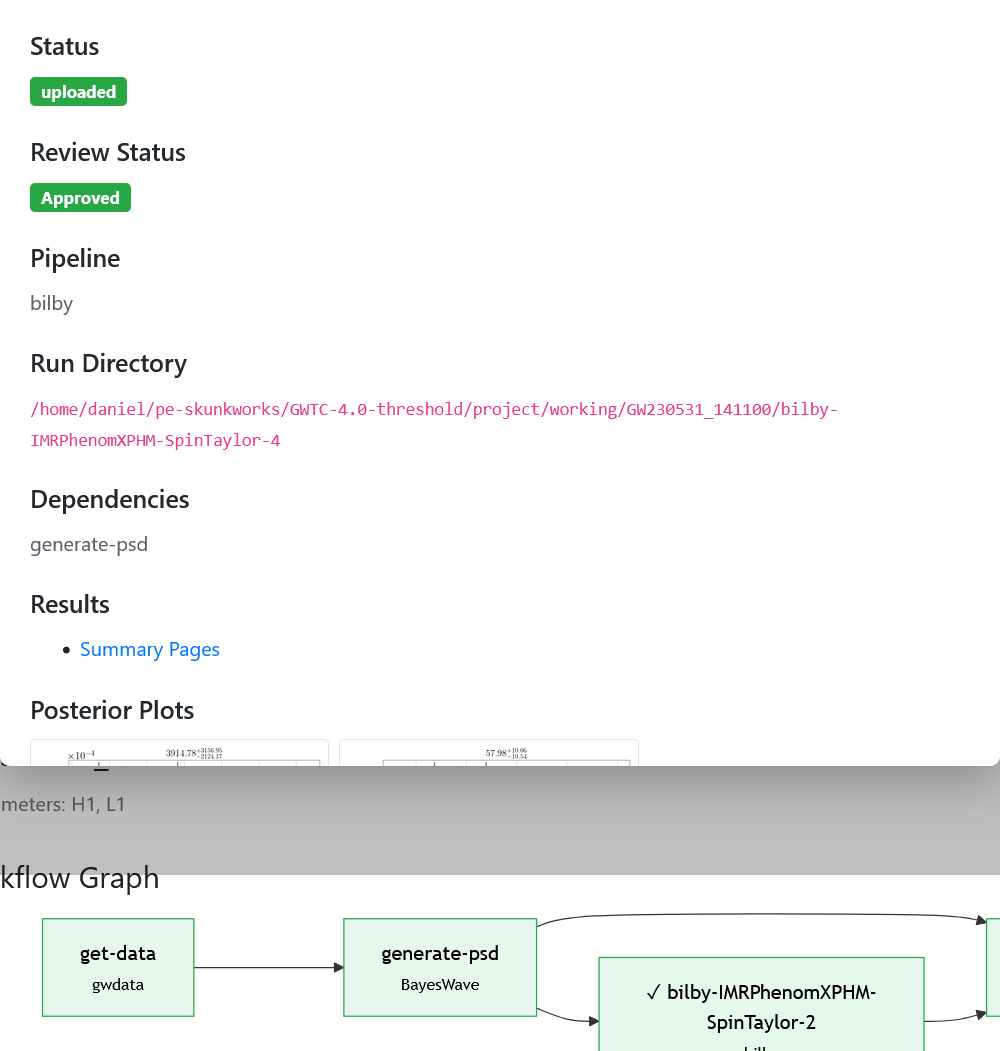
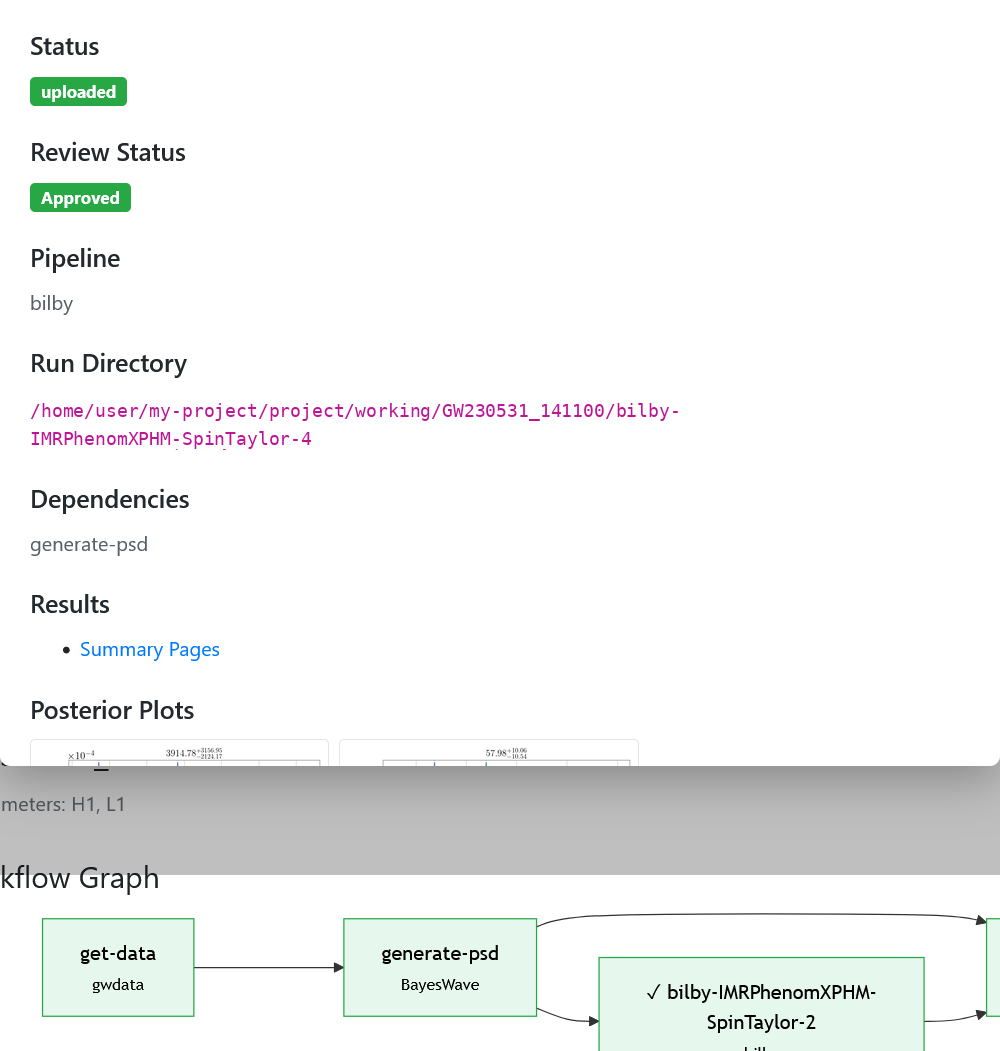
Showcase reporting on the homepage; clean up stale/leaky screenshots (#174)
* Fix docs deployment 404: sphinx-multiversion still targets master

The repo's default branch is main, but conf.py only whitelisted the
master branch for sphinx-multiversion builds and the docs workflow's
generated index.html redirected to ./master/index.html. Since no
master branch exists, nothing ever built under that path and the
published GitHub Pages site 404s.

Also fixes smv_latest_version, which sphinx-multiversion looks up as
a literal version-name dict key (not a regex) - it was previously an
invalid, unclosed expression that could never match anything.

Claude-Session: https://claude.ai/code/session_01WAf5vuktXKP75hpGCXjKRi

* Keep master in sphinx-multiversion branch whitelist for GitLab Pages

The shared docs/source/conf.py is also used by .gitlab-ci.yml's pages
job, which still builds and publishes from a master branch. Dropping
master from smv_branch_whitelist (previous commit) would leave that
job's own ./master/index.html redirect pointing at build output that
no longer gets produced, breaking the GitLab Pages docs the same way
GitHub Pages was broken. Whitelisting both branches lets each CI
pipeline build its own branch's docs correctly.

Claude-Session: https://claude.ai/code/session_01WAf5vuktXKP75hpGCXjKRi

* Fix widespread docs drift: dead postprocessing blueprints, removed pipelines, stale scheduler/monitor claims, broken references

The docs had accumulated significant drift from the current codebase across
many areas, most notably:
[…]

Changed region(s): [[0.031, 0.3654, 0.682, 0.4263], [0.713, 0.3654, 0.837, 0.3958]]

diff --git a/docs/source/getting-started.rst b/docs/source/getting-started.rst
@@ -203,3 +203,9 @@ What's next?
 + **Advanced project configuration**
   For most analyses the default project setup should be sufficient, but if you need to run an extremely large set of analyses, and are sharing the job with lots of other people, it might be convenient to be able to change things.
   You can find more details about doing that in the :ref:`project guide<project-guide>`.
+
++ **Auto-updating combined results**
+  Rather than manually re-running a summary job every time a new analysis finishes, you can mark it ``refreshable: true`` and asimov will keep it up to date on its own — see :ref:`subject analyses<subject-analysis>` in the analyses guide.
+
++ **Running parameter sweeps**
+  If you want to run the same analysis with several waveforms, samplers, or other settings, a single blueprint with a ``strategy`` section can expand into all of the combinations for you, rather than writing out each blueprint by hand — see :ref:`strategies<strategies>` in the blueprints guide.

diff --git a/docs/source/index.rst b/docs/source/index.rst
@@ -23,7 +23,7 @@
 	 <a class="btn btn-lg btn-primary d-flex align-items-center justify-content-center fw-semibold"
 	    href="getting-started.html"
 	 >
-	 <i class="bi bi-book"></i><span>  </span><span style="padding-left: 1rem;">Documentation</span>
+	 <i class="bi bi-book"></i><span>  </span><span style="padding-left: 1rem;">Quickstart Guide</span>
 	 </a>
 	 </div>
 
@@ -97,6 +97,11 @@ Reporting overview
 ~~~~~~~~~~~~~~~~~~
 
 Asimov can provide both machine-readible and human-friendly reports of all jobs it is monitoring, while collating relevant log files and outputs.
+
+.. figure:: screenshots/report-dashboard.png
+   :alt: The asimov report's summary dashboard, showing live counts of analyses by status
+
+   A live-updating project dashboard is one click away — see the :doc:`reporting guide <user-guide/reporting>` for the full interactive report, including per-event workflow graphs.
 
 .. raw:: html
 

diff --git a/docs/source/blueprints.rst b/docs/source/blueprints.rst
@@ -287,6 +287,8 @@ Stale analyses are indicated in the HTML report. You can mark an analysis as **r
 
 The resolved dependencies (those that were actually used when the analysis ran) are stored in the ledger and displayed in the HTML report alongside the current matching dependencies.
 
+.. _strategies:
+
 Strategies
 ==========
 
